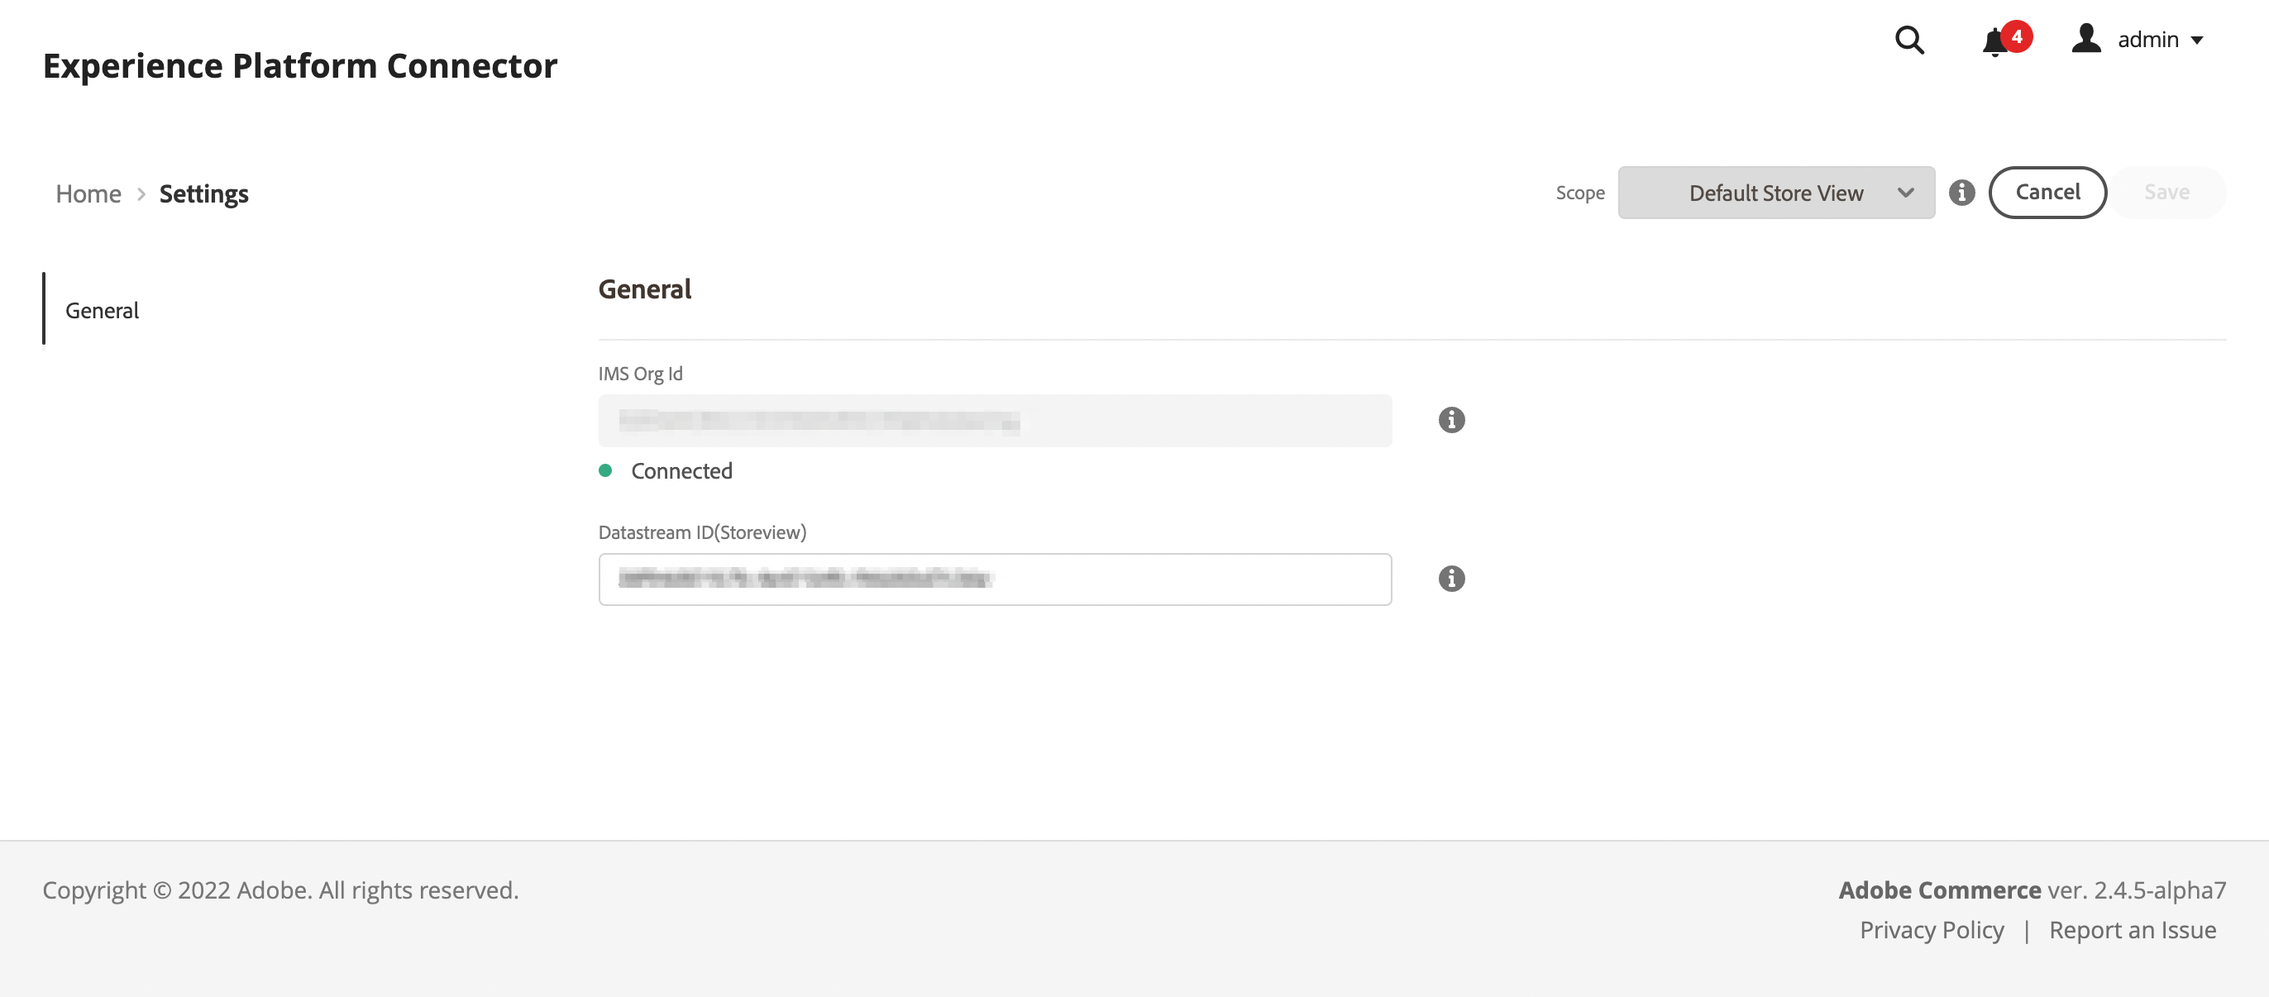
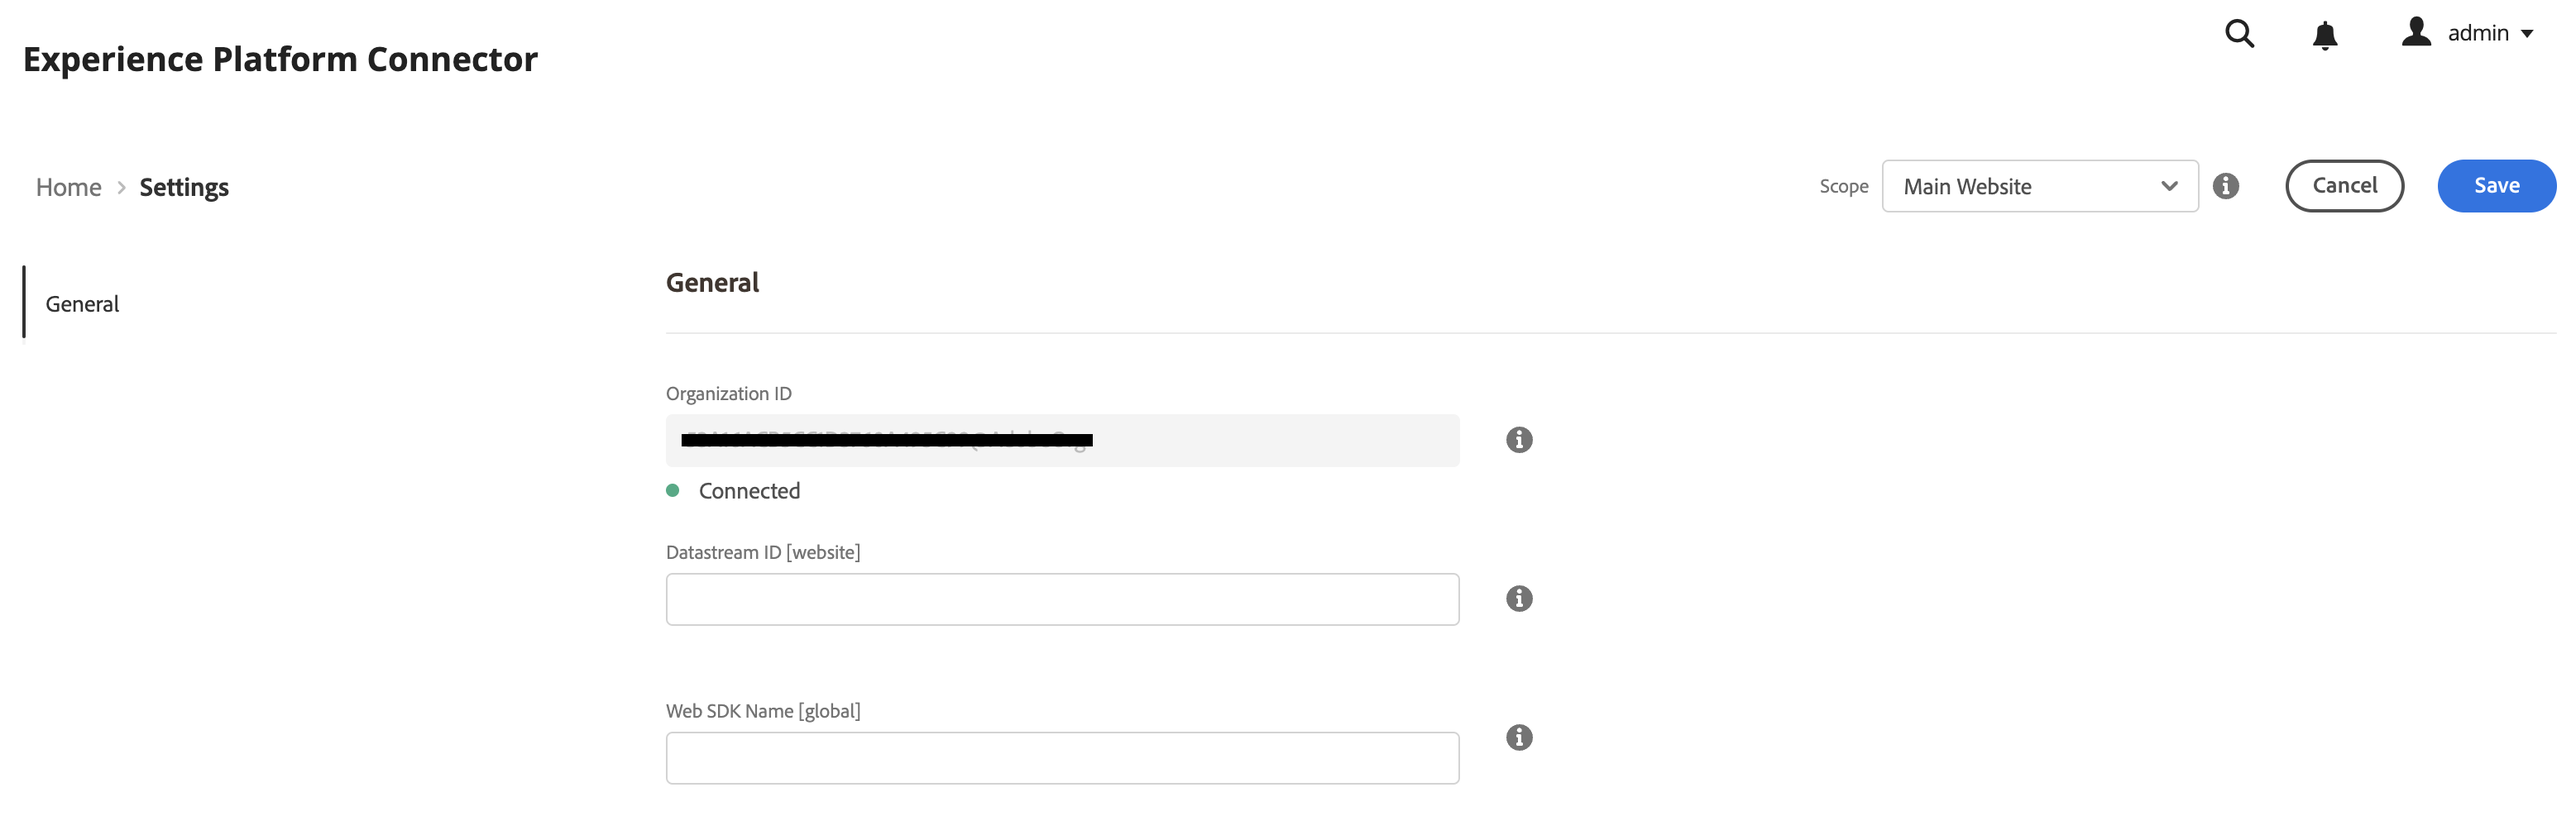
Updating based on feedback

diff --git a/help/experience-platform-connector/connect-data.md b/help/experience-platform-connector/connect-data.md
@@ -13,19 +13,17 @@ To connect your Adobe Commerce instance to the Adobe Experience Platform, you mu
 
 1. In the Admin, go to **System** > Services > **Experience Platform Connector**.
 
-1. In the **Scope** drop-down, set the context to Website.
+1. In the **Scope** drop-down, set the context to **Website**.
 
 1. In the **Organization ID** field, you see the ID associated with your Adobe Experience Platform account, as configured in the [Commerce Services Connector](../landing/saas.md#organizationid). The organization ID is global. Only one organization ID can be associated per Adobe Commerce instance.
 
-1. In the **Datastream ID** field, paste the ID of the datastream you [created](https://experienceleague.adobe.com/docs/experience-platform/edge/datastreams/overview.html) in the Adobe Experience Platform.
+1. In the **Datastream ID** field, paste the ID of the datastream you [created](https://experienceleague.adobe.com/docs/experience-platform/edge/datastreams/overview.html#create) in the Adobe Experience Platform.
 
-1. (Optional) In the **Web SDK name** field, paste the name of the Web SDK already deployed to your site. If you do not have a Web SDK deployed to your site, the Experience Platform connector installs one for you. In that case, you can leave this field blank.
+    >[!NOTE]
+    >
+    >The scope of the datastream ID must be set at the website level or higher. At that level, the same datastream ID is used for each website in the hierarchy. You cannot set the datastream ID scope at the storeview level.
 
-## Relationship of datastream ID and your Commerce instance website
-
-CLARIFY that certain fields are global while the datastream is per website!!!
-
-The datastream ID enables event forwarding from Adobe Experience Platform to other Adobe DX products and must be associated to a specific website within your specific Adobe Commerce instance. You can also associate multiple websites to the same datastream ID. It depends on what makes the most sense for your business. [Learn more](https://experienceleague.adobe.com/docs/experience-platform/edge/datastreams/overview.html?lang=en#event-forwarding-settings) about event forwarding.
+1. (Optional) In the **Web SDK Name** field, paste the name of the Web SDK already deployed to your site. If you do not have a Web SDK deployed to your site, leave this field blank and the Experience Platform connector deploys one for you.
 
 ## Field descriptions
 

diff --git a/help/experience-platform-connector/overview.md b/help/experience-platform-connector/overview.md
@@ -38,9 +38,9 @@ This guide is designed for the Adobe Commerce merchant who want to connect their
 
 See the [PWA Studio](https://developer.adobe.com/commerce/pwa-studio/integrations/adobe-commerce/aep/) documentation for information about how to use the Experience Platform connector in a PWA Studio storefront.
 
-### AEM support
+### AEM support {#aem-support}
 
-See the [AEM]() documentation for information about how to use the Experience Platform connector in an AEM storefront.
+See the [AEM](https://experienceleague.adobe.com/docs/experience-manager-cloud-service/content/content-and-commerce/integrations/aep.html) documentation to learn how to send storefront event data from an AEM-rendered product page to the Experience Platform using the CIF - Experience Platform Connector.
 
 If you need information or have questions that are not covered in this guide, use the following resources:
 

diff --git a/help/experience-platform-connector/release-notes.md b/help/experience-platform-connector/release-notes.md
@@ -13,7 +13,10 @@ These release notes describe the latest versions of Experience Platform connecto
 
 ## 2.0.0
 
-* ![New](../assets/new.svg) - Added new events
+* ![New](../assets/new.svg) - Added two new [storefront events](events.md): `openCart` and `removeFromCart`
+* ![New](../assets/new.svg) - Added support for an [AEM storefront](overview.md#aem-support)
+* ![New](../assets/new.svg) - Added ability to specify your own AEP Web SDK when [connecting](connect-data.md) your Adobe Commerce instance to the Experience Platform
+* ![Fix](../assets/fix.svg) - Updated datastream scope requirement so that datastream IDs must be scoped to the website rather than storeview
 
 ## 1.0.0
 
